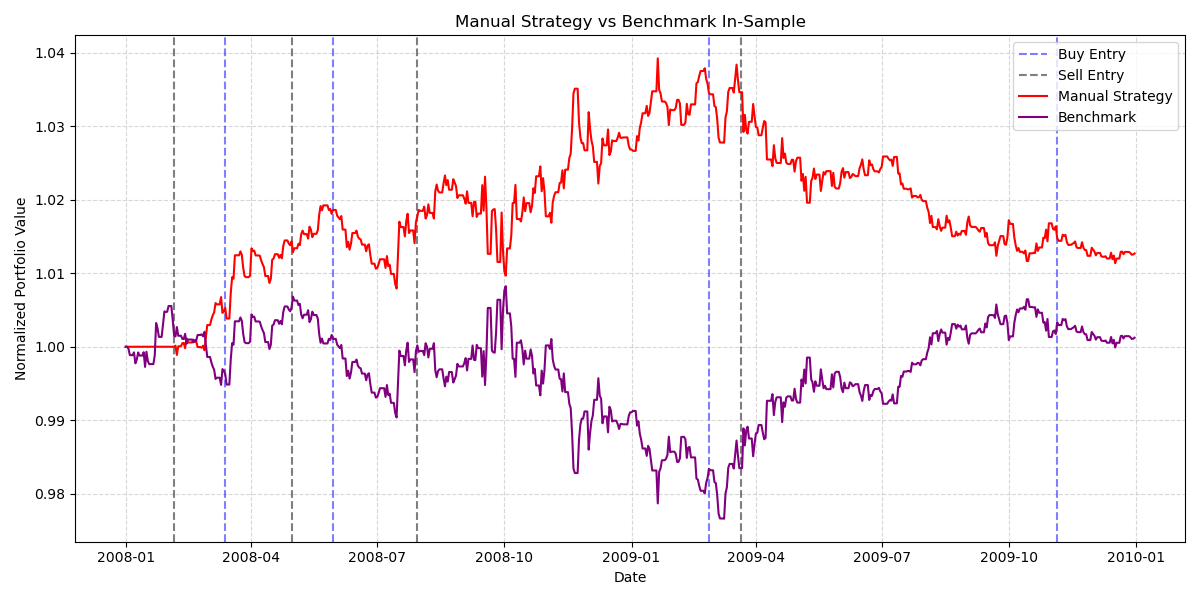
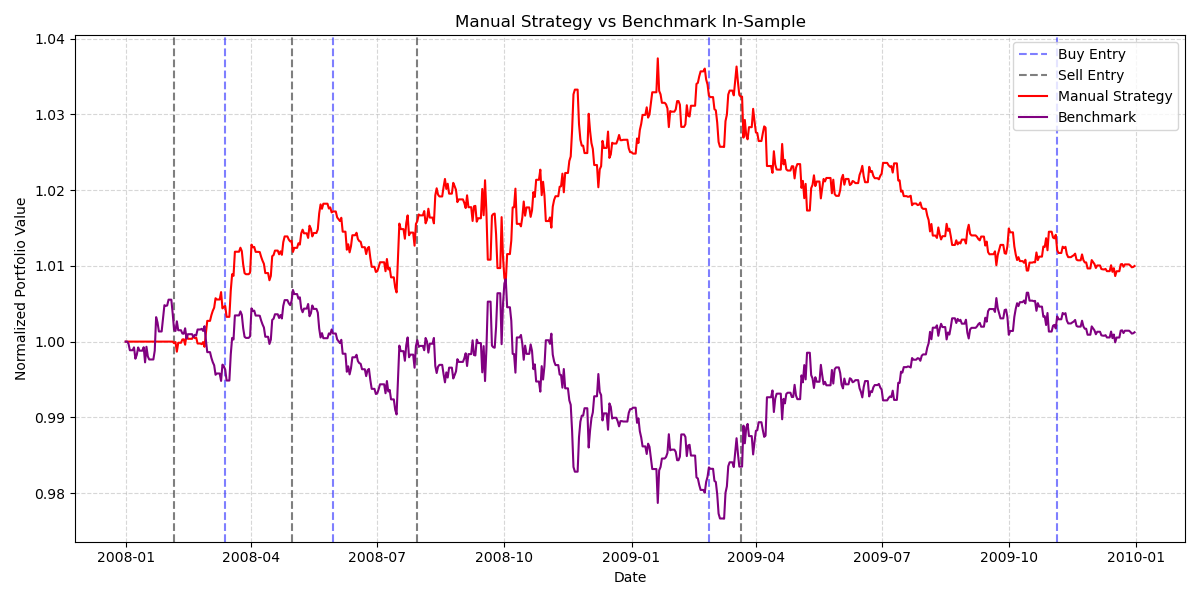
commission

diff --git a/strategy_evaluation/StrategyLearner.py b/strategy_evaluation/StrategyLearner.py
@@ -50,7 +50,7 @@ class StrategyLearner(object):
     :type commission: float  		  	   		 	 	 			  		 			     			  	 
     """  		  	   		 	 	 			  		 			     			  	 
     # constructor  		  	   		 	 	 			  		 			     			  	 
-    def __init__(self, verbose=False, impact=0.005, commission=0.0):
+    def __init__(self, verbose=False, impact=0.005, commission=9.95):
         """  		  	   		 	 	 			  		 			     			  	 
         Constructor method  		  	   		 	 	 			  		 			     			  	 
         """  		  	   		 	 	 			  		 			     			  	 
@@ -96,7 +96,7 @@ class StrategyLearner(object):
         # example usage of the old backward compatible util function  		  	   		 	 	 			  		 			     			  	 
         syms = [symbol]  		  	   		 	 	 			  		 			     			  	 
         period = pd.date_range(sd, ed)
-        prices_all = ut.get_data(syms, period, False)  # automatically adds SPY
+        prices_all = ut.get_data(syms, period, False)  # automatically remove SPY
         prices = prices_all[syms]  # only portfolio symbols
         prices = prices.ffill().bfill()
 

diff --git a/strategy_evaluation/ManualStrategy.py b/strategy_evaluation/ManualStrategy.py
@@ -7,7 +7,7 @@ import marketsimcode as mktsim
 import matplotlib.pyplot as plt
 class ManualStrategy:
 
-    def __init__(self, verbose=False, impact=0.00, commission=0.00):
+    def __init__(self, verbose=False, impact=0.005, commission=9.95):
         self.verbose = verbose
         self.impact = impact
         self.commission = commission

diff --git a/strategy_evaluation/RTLearner.py b/strategy_evaluation/RTLearner.py
@@ -15,6 +15,9 @@ class RTLearner(object):
     def author(self):
         return "lliao32"
 
+    def study_group(self):
+        return "lliao32"
+
     def add_evidence(self, data_x, data_y):
         """
         Add training data to learner
